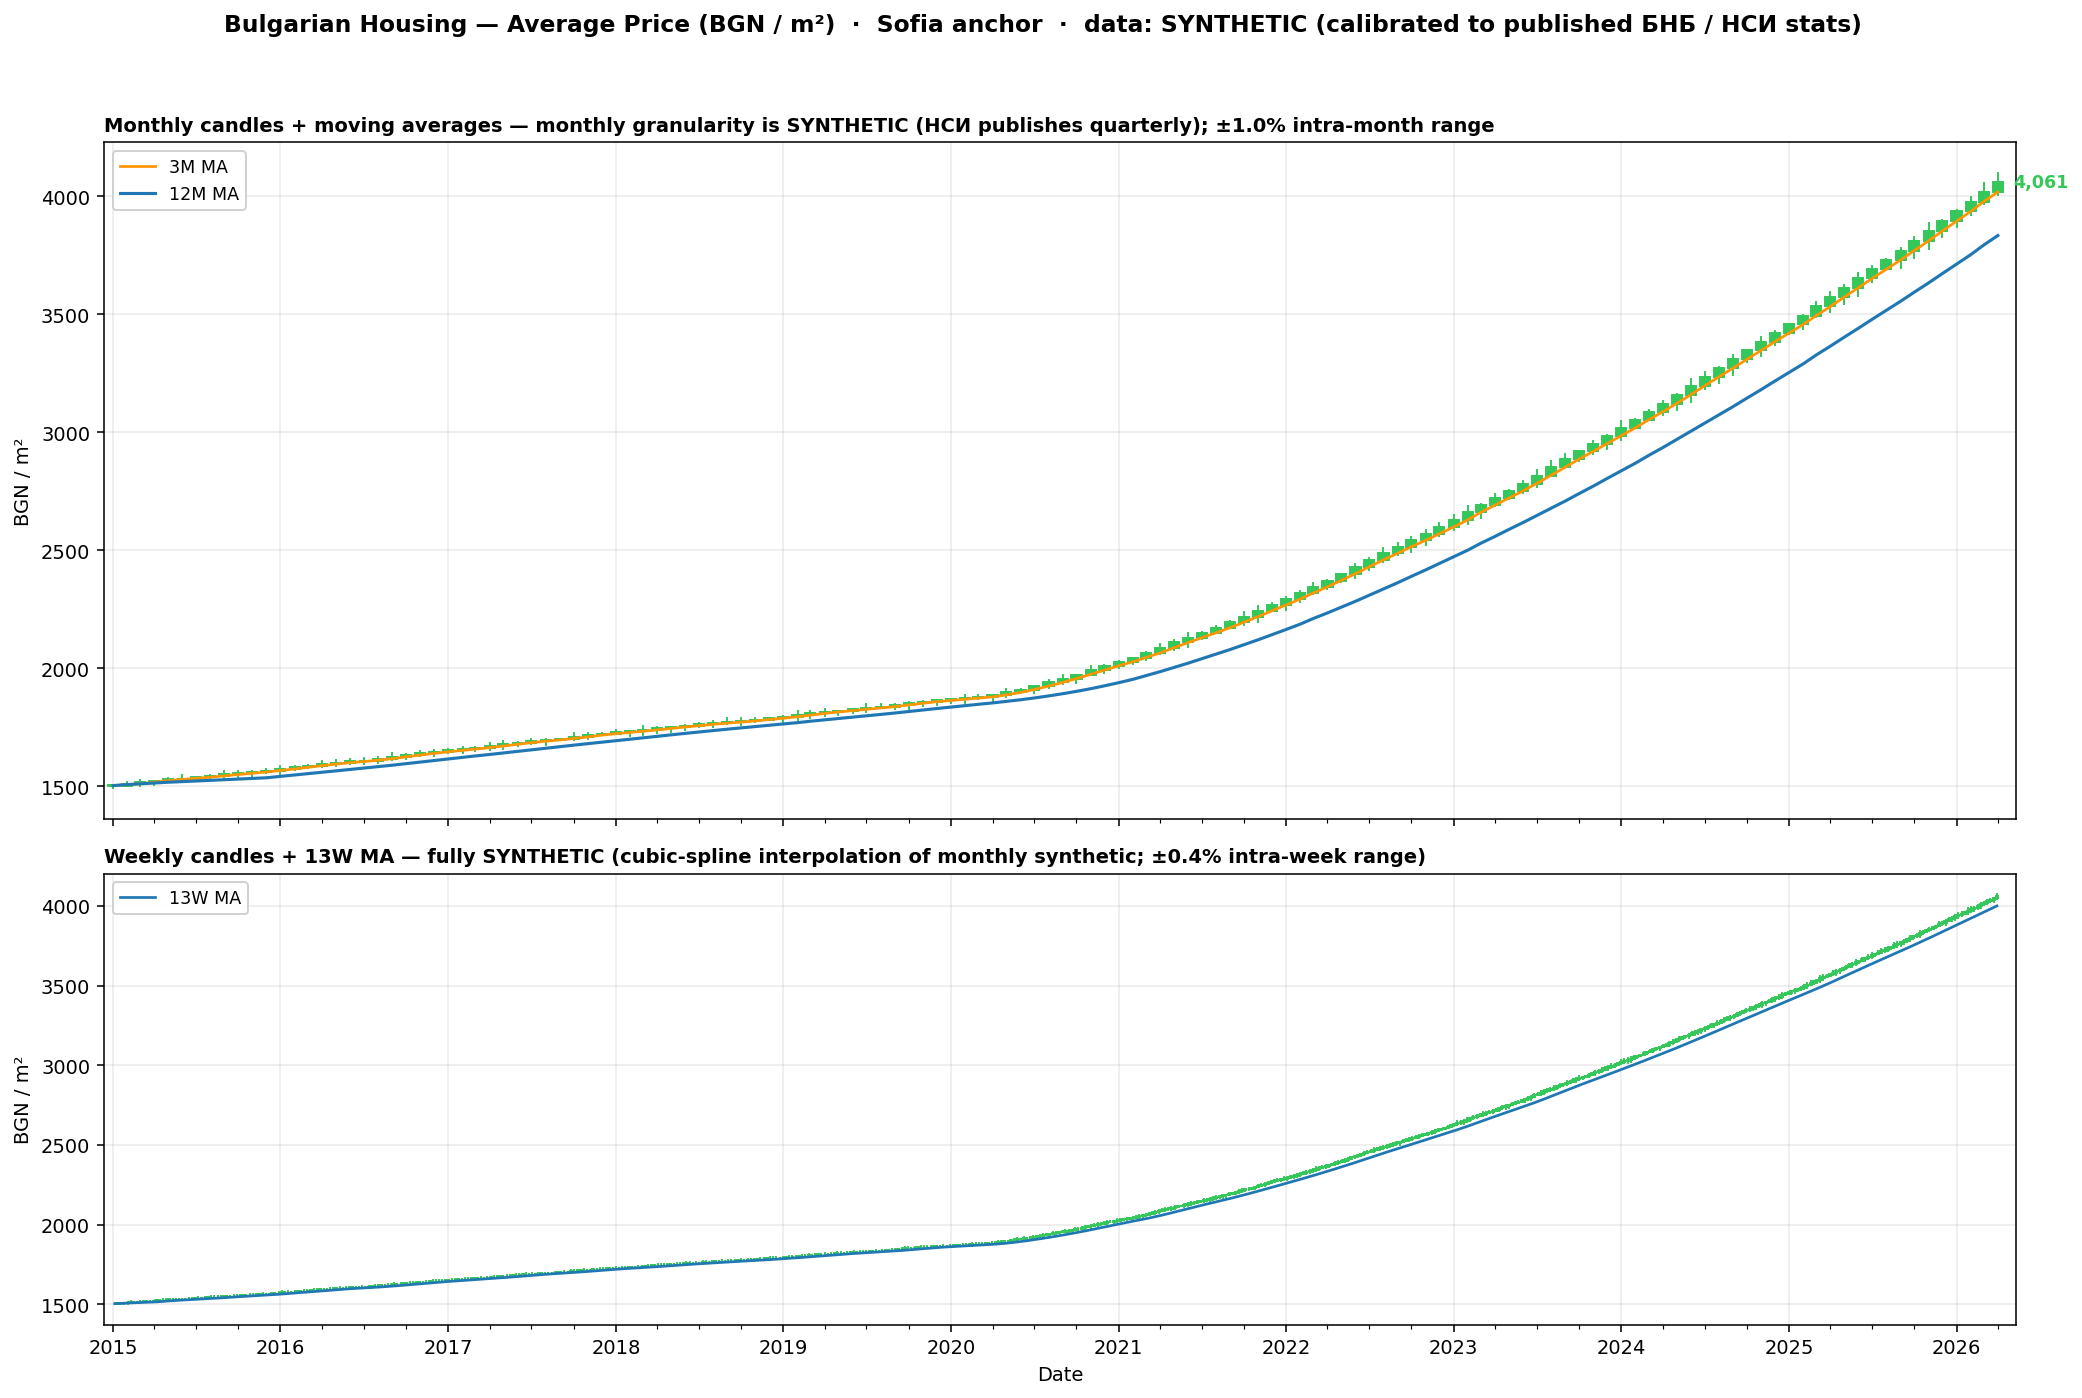
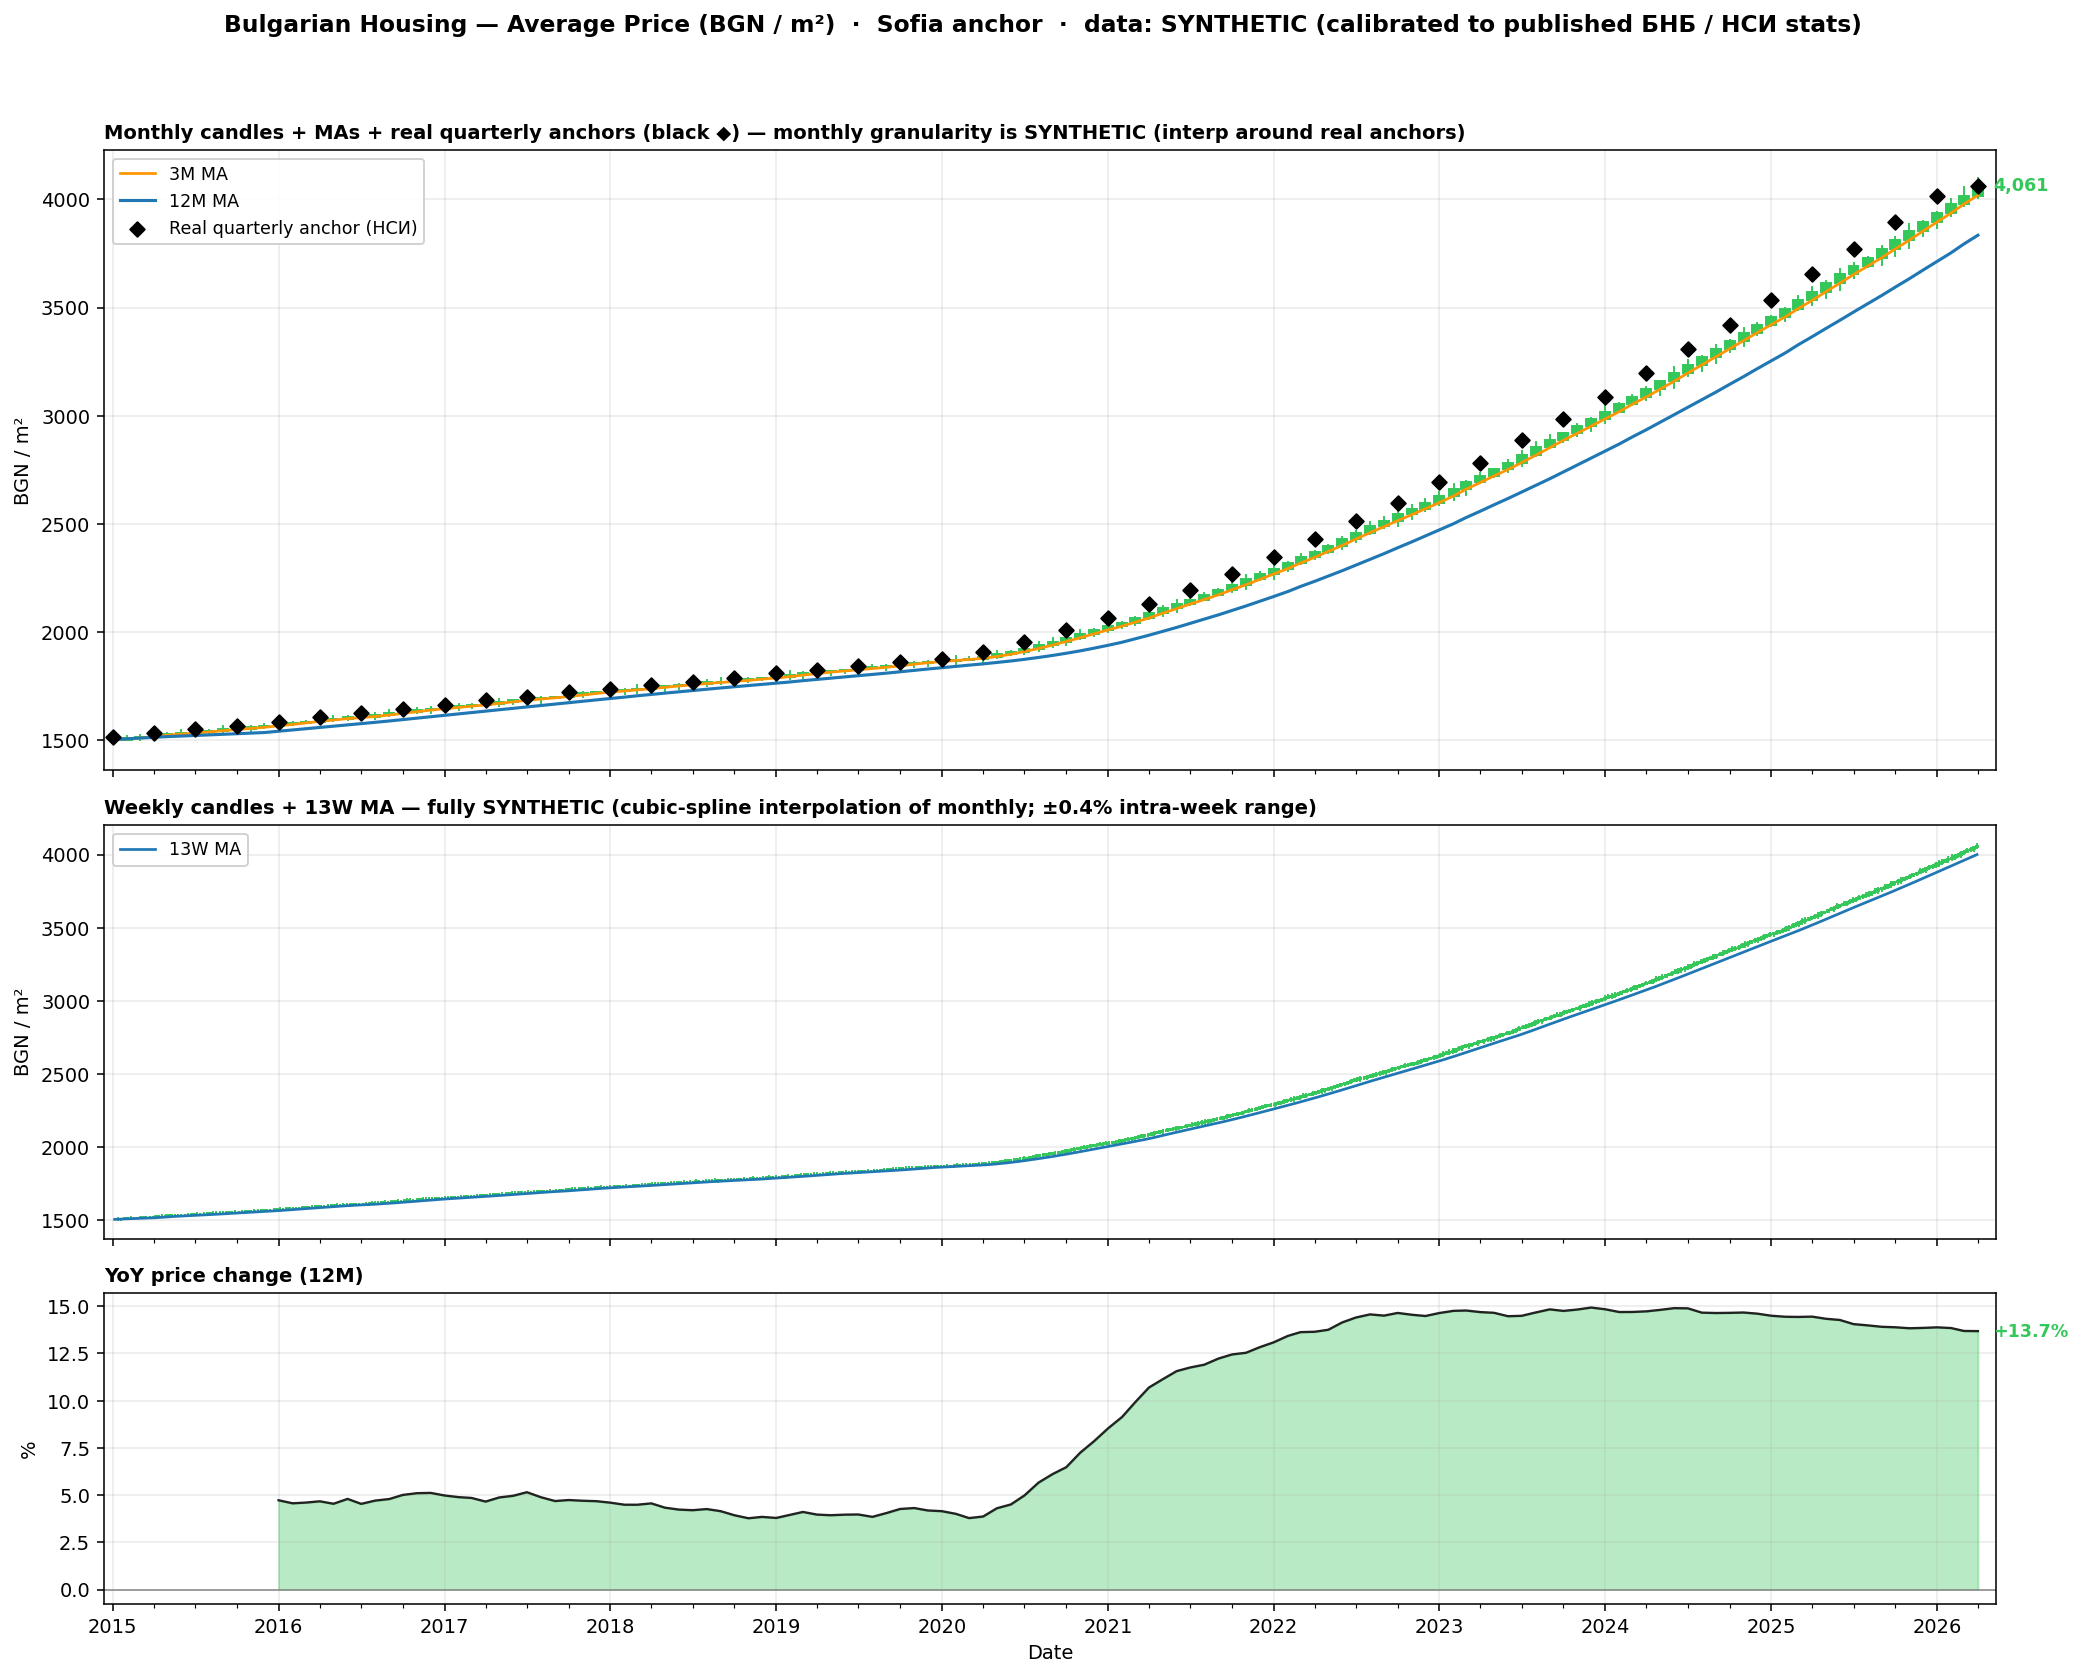
Mark real quarterly anchors + add YoY% pane to price chart
- Black diamonds on monthly candles show real НСИ quarterly anchors
- New bottom pane: YoY price change (12M) with red/green fill

diff --git a/bg_housing_cot.py b/bg_housing_cot.py
@@ -299,13 +299,14 @@ def _draw_candles(ax, ohlc: pd.DataFrame, width_days: float = 22):
 
 def plot_price_chart(monthly: pd.DataFrame, out_path: str, source_label: str):
     """
-    Two-pane price view of BG average housing price (BGN / m²):
-      1) Monthly OHLC candles + 3M & 12M moving averages.
-      2) Weekly OHLC candles (built from cubic-spline interpolation of the
-         monthly series) + 13W moving average.
+    Three-pane price view of BG average housing price (BGN / m²):
+      1) Monthly OHLC candles + 3M & 12M MAs + real quarterly anchor markers.
+      2) Weekly OHLC candles (cubic-spline interp of monthly) + 13W MA.
+      3) YoY % change pane (12M return) — what real-estate analysts actually
+         care about.
 
-    HONESTY: НСИ avg price is QUARTERLY-real. Monthly and weekly granularity
-    here is synthetic interpolation around quarterly anchors.
+    HONESTY: НСИ avg price is QUARTERLY-real. Anything below quarterly is
+    synthetic interpolation around real quarterly anchors.
     """
     price = monthly["avg_price_sqm"]
     m_ohlc = synthesize_monthly_ohlc(price, vol_pct=0.010)
@@ -316,24 +317,32 @@ def plot_price_chart(monthly: pd.DataFrame, out_path: str, source_label: str):
     ma_m_long = price.rolling(window=12, min_periods=1).mean()
     ma_w = weekly_close.rolling(window=13, min_periods=1).mean()
 
-    fig, axes = plt.subplots(2, 1, figsize=(15, 10), sharex=True,
-                             gridspec_kw={"height_ratios": [3, 2]})
+    # Real quarterly anchors = the QS-resampled close from the monthly series.
+    # In real-data mode these are the actual НСИ prints.
+    quarterly_anchors = price.resample("QS").last()
+    yoy = price.pct_change(periods=12) * 100
+
+    fig, axes = plt.subplots(3, 1, figsize=(15, 12), sharex=True,
+                             gridspec_kw={"height_ratios": [3, 2, 1.5]})
     fig.suptitle(
         "Bulgarian Housing — Average Price (BGN / m²)  ·  Sofia anchor  ·  "
         f"data: {source_label}",
         fontsize=12, fontweight="bold", y=0.995,
     )
 
-    # --- Monthly candles + MAs ---
+    # --- Monthly candles + MAs + quarterly anchors ---
     ax = axes[0]
     _draw_candles(ax, m_ohlc, width_days=22)
     ax.plot(ma_m_short.index, ma_m_short.values, color="#ff9500", lw=1.4,
             label="3M MA", zorder=4)
     ax.plot(ma_m_long.index, ma_m_long.values, color="#1f77b4", lw=1.6,
             label="12M MA", zorder=4)
+    ax.scatter(quarterly_anchors.index, quarterly_anchors.values,
+               color="#000", s=28, marker="D", zorder=5,
+               label="Real quarterly anchor (НСИ)")
     ax.set_title(
-        "Monthly candles + moving averages — monthly granularity is "
-        "SYNTHETIC (НСИ publishes quarterly); ±1.0% intra-month range",
+        "Monthly candles + MAs + real quarterly anchors (black ◆) — "
+        "monthly granularity is SYNTHETIC (interp around real anchors)",
         loc="left", fontsize=10, fontweight="bold",
     )
     ax.set_ylabel("BGN / m²")
@@ -357,12 +366,34 @@ def plot_price_chart(monthly: pd.DataFrame, out_path: str, source_label: str):
              label="13W MA", zorder=4)
     ax2.set_title(
         "Weekly candles + 13W MA — fully SYNTHETIC (cubic-spline "
-        "interpolation of monthly synthetic; ±0.4% intra-week range)",
+        "interpolation of monthly; ±0.4% intra-week range)",
         loc="left", fontsize=10, fontweight="bold",
     )
     ax2.set_ylabel("BGN / m²")
     ax2.grid(True, alpha=0.25)
     ax2.legend(loc="upper left", fontsize=9, framealpha=0.9)
+
+    # --- YoY % change ---
+    ax3 = axes[2]
+    ax3.fill_between(yoy.index, 0, yoy.values,
+                     where=(yoy.values >= 0), color="#34c759", alpha=0.35,
+                     interpolate=True)
+    ax3.fill_between(yoy.index, 0, yoy.values,
+                     where=(yoy.values < 0), color="#ff3b30", alpha=0.35,
+                     interpolate=True)
+    ax3.plot(yoy.index, yoy.values, color="#222", lw=1.2)
+    ax3.axhline(0, color="#888", lw=0.8)
+    last_yoy = float(yoy.dropna().iloc[-1])
+    ax3.annotate(
+        f"{last_yoy:+.1f}%",
+        xy=(yoy.index[-1], last_yoy), xytext=(8, 0), textcoords="offset points",
+        va="center", fontsize=9, fontweight="bold",
+        color=("#34c759" if last_yoy >= 0 else "#ff3b30"),
+    )
+    ax3.set_title("YoY price change (12M)", loc="left",
+                  fontsize=10, fontweight="bold")
+    ax3.set_ylabel("%")
+    ax3.grid(True, alpha=0.25)
 
     for ax_ in axes:
         ax_.xaxis.set_major_locator(mdates.YearLocator())
